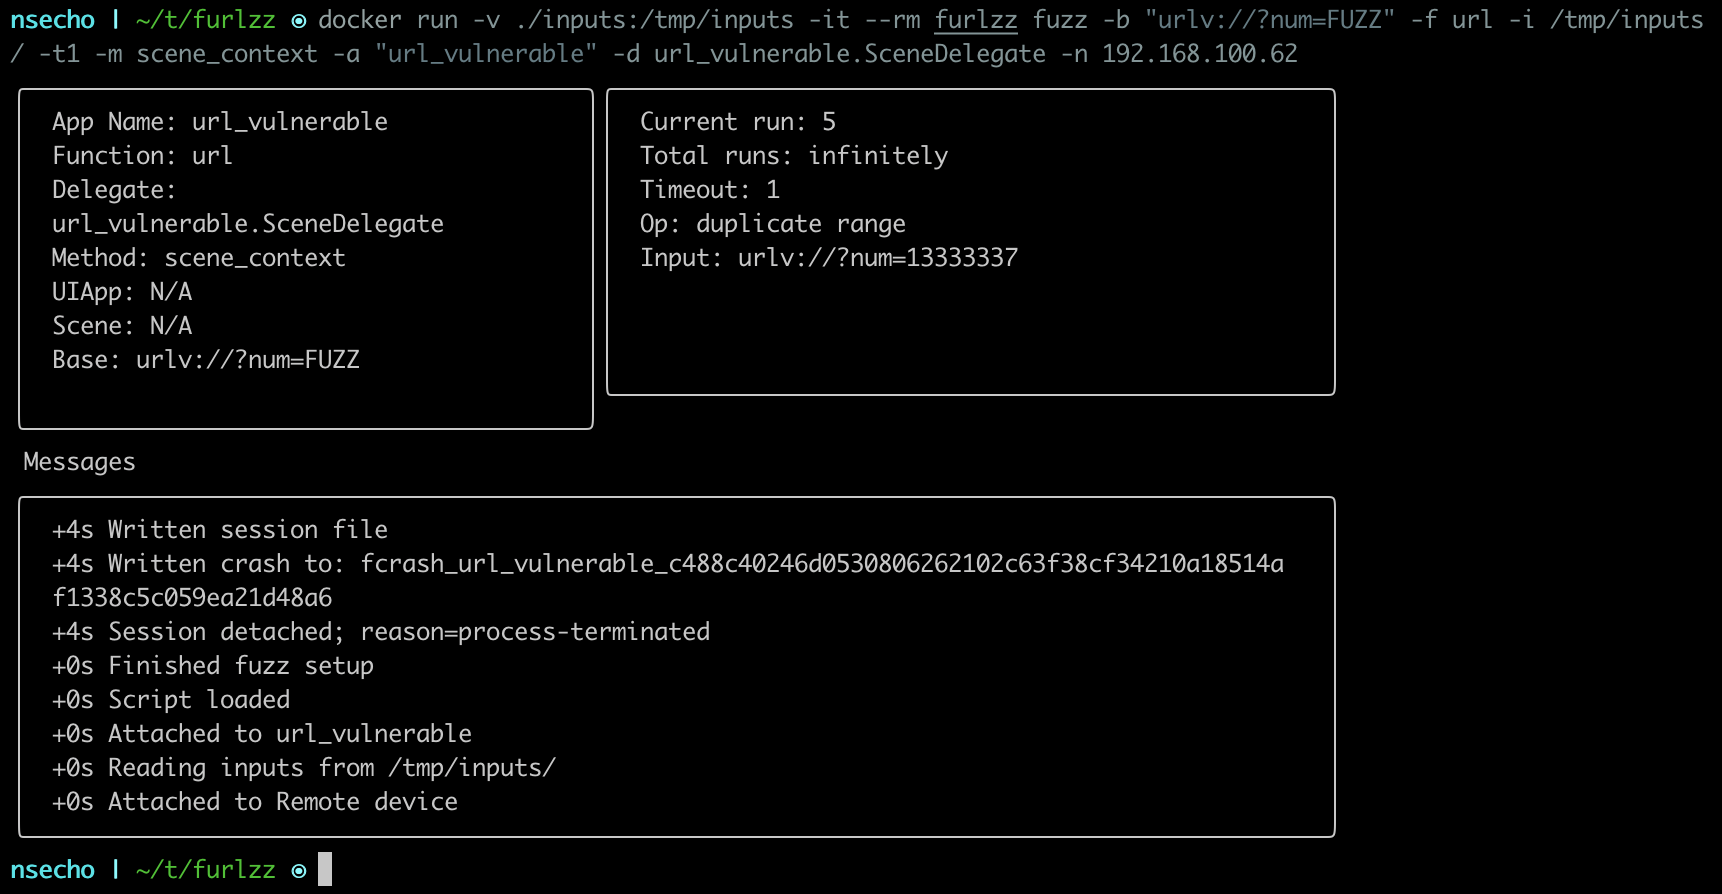
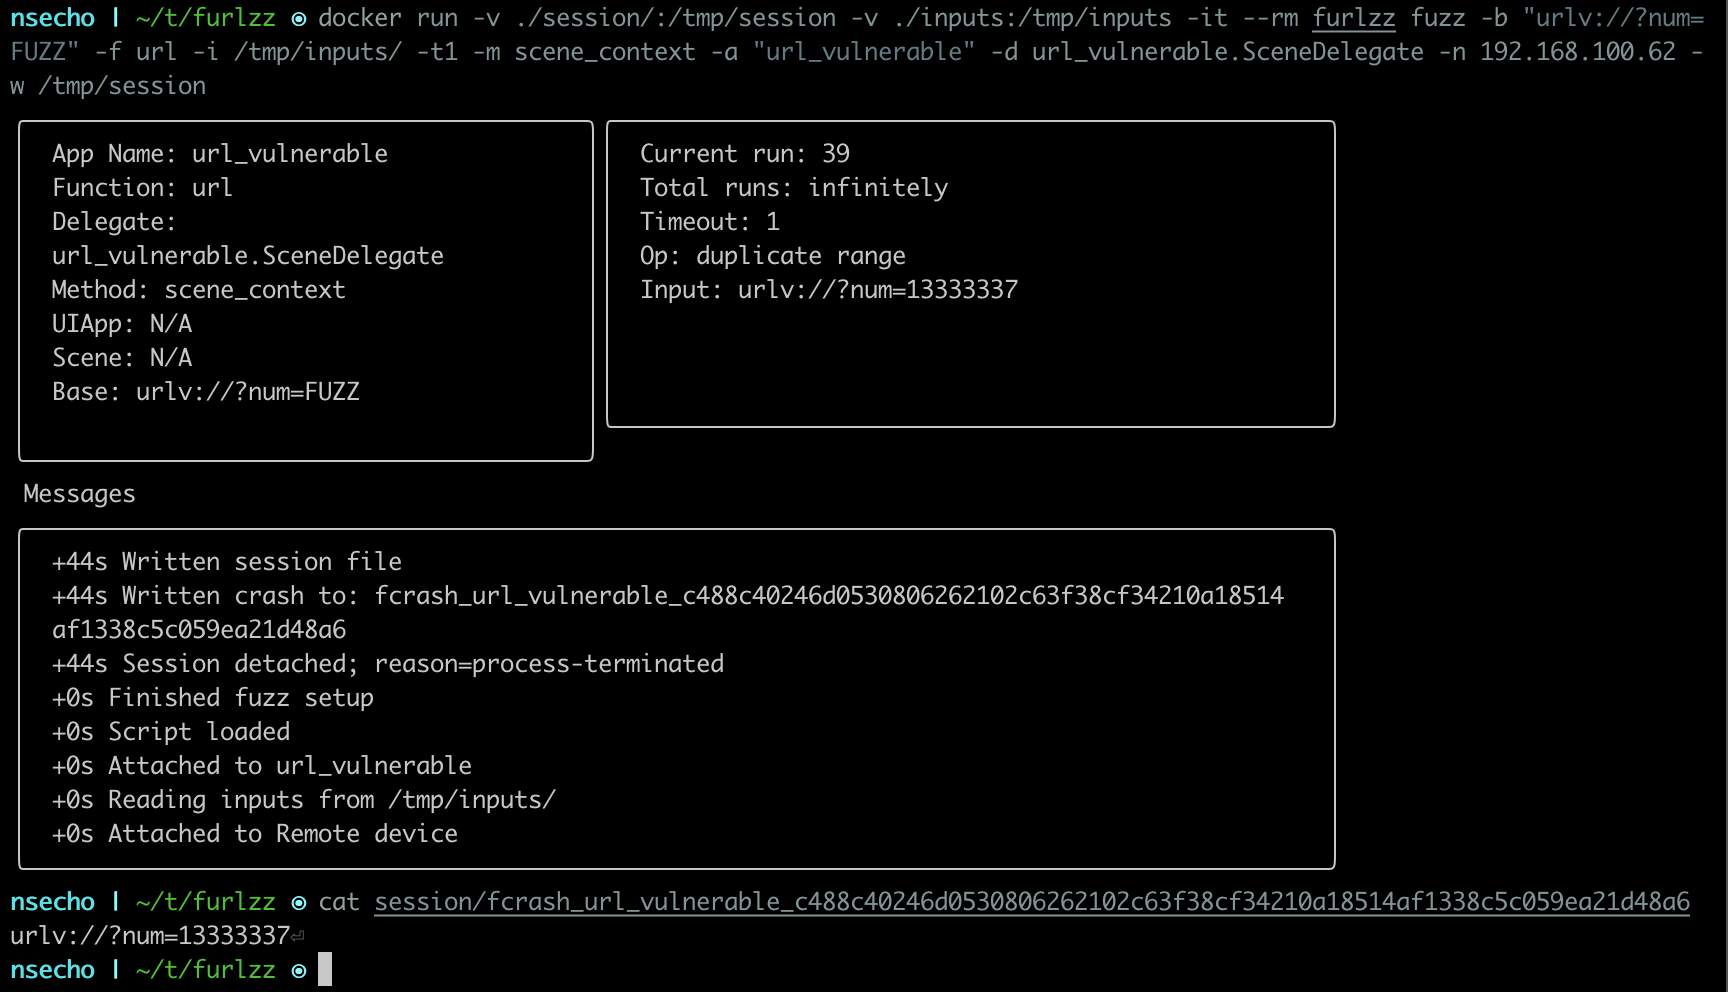
fix: fix errors with exiting

Changed region(s): [[0.0, 0.453, 0.9849, 0.9966], [0.0, 0.0, 1.0, 0.4228], [0.3386, 0.0906, 0.7695, 0.453]]

diff --git a/cmd/fuzz.go b/cmd/fuzz.go
@@ -3,6 +3,7 @@ package cmd
 import (
 	"fmt"
 	"os"
+	"path/filepath"
 	"strings"
 	"time"
 
@@ -92,6 +93,11 @@ var fuzzCmd = &cobra.Command{
 			return err
 		}
 
+		wd, err := cmd.Flags().GetString("working-dir")
+		if err != nil {
+			return err
+		}
+
 		m := tui.NewModel()
 		m.Crash = crash
 		m.Runs = runs
@@ -108,6 +114,8 @@ var fuzzCmd = &cobra.Command{
 		m.ValidInputs = validInputs
 
 		p := tea.NewProgram(m)
+
+		mut := mutator.NewMutator(base, app, runs, fn, crash, validInputs...)
 
 		var sess *frida.Session = nil
 		var script *frida.Script = nil
@@ -167,14 +175,15 @@ var fuzzCmd = &cobra.Command{
 			sendStats(p, fmt.Sprintf("Attached to %s", app))
 
 			var lastInput string
+			detached := make(chan struct{})
 
 			sess.On("detached", func(reason frida.SessionDetachReason, crash *frida.Crash) {
-				// Add sleep here so that we can wait for the context to get cancelled
+				detached <- struct{}{}
 				defer p.Send(tui.SessionDetached{})
 				sendStats(p, fmt.Sprintf("Session detached; reason=%s", reason.String()))
 				out := fmt.Sprintf("fcrash_%s_%s", app, crashSHA256(lastInput))
 				err := func() error {
-					f, err := os.Create(out)
+					f, err := os.Create(filepath.Join(wd, out))
 					if err != nil {
 						return err
 					}
@@ -196,7 +205,7 @@ var fuzzCmd = &cobra.Command{
 					Scene:         scene,
 					UIApp:         uiapp,
 				}
-				if err := s.WriteToFile(); err != nil {
+				if err := s.WriteToFile(wd); err != nil {
 					sendErr(p, fmt.Sprintf("Could not write session file: %s", err.Error()))
 				} else {
 					sendStats(p, "Written session file")
@@ -223,14 +232,17 @@ var fuzzCmd = &cobra.Command{
 			_ = script.ExportsCall("setup_fuzz", method, uiapp, delegate, scene)
 			sendStats(p, "Finished fuzz setup")
 
-			mut := mutator.NewMutator(base, app, runs, fn, crash, validInputs...)
 			ch := mut.Mutate()
 
-		mutateLoop:
+		mLoop:
 			for {
 				select {
+				case <-detached:
+					mut.Close()
+					break mLoop
 				case <-m.ExitCh:
-					break mutateLoop
+					mut.Close()
+					break mLoop
 				case mutated := <-ch:
 					lastInput = mutated.Input
 					p.Send(tui.MutatedMsg(mutated))
@@ -321,6 +333,7 @@ func init() {
 	fuzzCmd.Flags().StringP("delegate", "d", "", "UISceneDelegate class name")
 	fuzzCmd.Flags().StringP("uiapp", "u", "", "UIApplication class name")
 	fuzzCmd.Flags().StringP("scene", "s", "", "UIScene class name")
+	fuzzCmd.Flags().StringP("working-dir", "w", ".", "Working directory")
 	fuzzCmd.Flags().BoolP("crash", "c", false, "ignore previous crashes")
 	fuzzCmd.Flags().UintP("runs", "r", 0, "number of runs")
 	fuzzCmd.Flags().UintP("timeout", "t", 1, "sleep X seconds between each case")

diff --git a/internal/tui/model.go b/internal/tui/model.go
@@ -69,11 +69,8 @@ func (m Model) Update(msg tea.Msg) (tea.Model, tea.Cmd) {
 	case tea.KeyMsg:
 		switch msg.String() {
 		case "ctrl+c", "q":
-			if !m.Stopped {
-				m.ExitCh <- struct{}{}
-				m.Stopped = true
-			}
 			m.exiting = true
+			m.ExitCh <- struct{}{}
 			return m, m.Tick()
 		}
 	case StatsMsg:
@@ -81,10 +78,6 @@ func (m Model) Update(msg tea.Msg) (tea.Model, tea.Cmd) {
 		m.messages = append(m.messages, ms)
 		return m, nil
 	case ErrMsg:
-		if !m.Stopped {
-			m.ExitCh <- struct{}{}
-			m.Stopped = true
-		}
 		m.lastErr = fmt.Sprintf("+%ds=>%s", int(time.Since(m.start).Seconds()), string(msg))
 		m.exiting = true
 		return m, m.Tick()
@@ -99,10 +92,6 @@ func (m Model) Update(msg tea.Msg) (tea.Model, tea.Cmd) {
 		}
 		return m, m.Tick()
 	case SessionDetached:
-		if !m.Stopped {
-			m.ExitCh <- struct{}{}
-			m.Stopped = true
-		}
 		m.exiting = true
 		return m, m.Tick()
 	}

diff --git a/mutator/mutator.go b/mutator/mutator.go
@@ -46,11 +46,18 @@ type Mutator struct {
 	validInputs    []string
 	crashes        []string
 	multipleRounds bool
+	quit           chan struct{}
 }
 
 type Mutated struct {
 	Input    string
 	Mutation string
+}
+
+func (m *Mutator) Close() {
+	m.quit <- struct{}{}
+	close(m.ch)
+	close(m.quit)
 }
 
 func (m *Mutator) Mutate() <-chan *Mutated {
@@ -65,9 +72,14 @@ func (m *Mutator) Mutate() <-chan *Mutated {
 			close(m.ch)
 		} else {
 			for {
-				inp := m.mutateAndSend()
-				for !inp {
-					inp = m.mutateAndSend()
+				select {
+				case <-m.quit:
+					break
+				default:
+					inp := m.mutateAndSend()
+					for !inp {
+						inp = m.mutateAndSend()
+					}
 				}
 			}
 		}

diff --git a/cmd/session.go b/cmd/session.go
@@ -4,6 +4,7 @@ import (
 	"fmt"
 	"gopkg.in/yaml.v3"
 	"os"
+	"path/filepath"
 	"time"
 )
 
@@ -34,11 +35,11 @@ type Session struct {
 	UIApp         string `yaml:"uiapp"`
 }
 
-func (s *Session) WriteToFile() error {
+func (s *Session) WriteToFile(wd string) error {
 	t := time.Now()
 	outputFilename := fmt.Sprintf("session_%s", t.Format("2006_01_02_15:04:05"))
 
-	f, err := os.Create(outputFilename)
+	f, err := os.Create(filepath.Join(wd, outputFilename))
 	if err != nil {
 		return err
 	}
